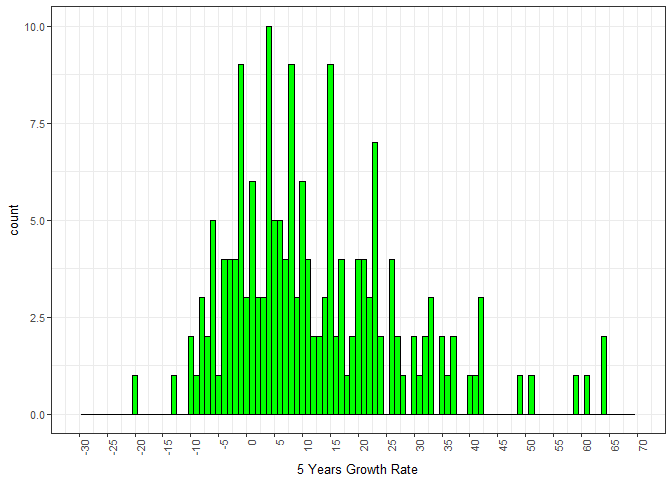
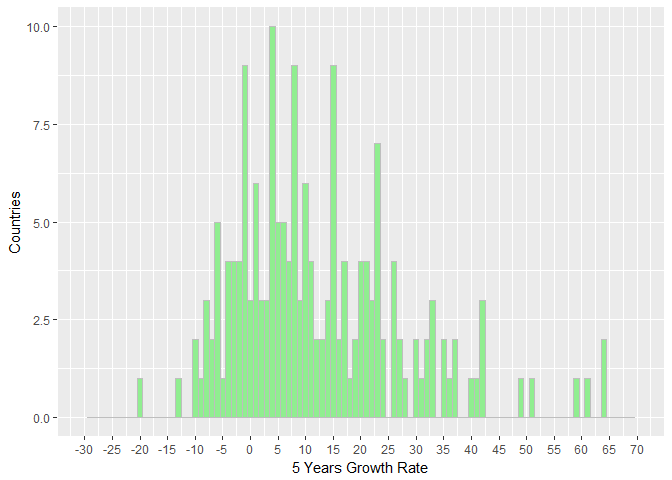
Mini-project series I

diff --git a/lesson3/lesson3_mini-project.md b/lesson3/lesson3_mini-project.md
@@ -1,5 +1,9 @@
-Lesson3 Project
+Mini-Project Series I: The Trends of GDP/Capita By Countries
 ================
+
+### Introduction
+
+The goal of this project series is to explore some macro economic data mostly by visualizing for analysis. For that, there will be a lot of data processing such as creating new variables as well as handling incomplete information. The first topic of the series is about GDP/capita which is one of the well-known economic measures and is what I personally look at when surveying a country. The data set from [Gap Minder](https://www.gapminder.org/data/) is a matrix with inflation-adjusted GDP/capita from 1960 to 2011 for plenty of countries. Histograms of the past and the present will be drawn to see how the countries have grown in the long term. For the recent trends, I will calculate the growth rate in recent 5 years for each nation to see at what rate most countries have grown and which country grew the most and the least. Lastly, the countries will be classified into 3 groups by GDP/capita and will be visualized to show any trend they have.
 
 ### Import libraries
 
@@ -11,27 +15,27 @@ library(dplyr)
 library(gridExtra)
 ```
 
-### Data from Gapminder: GDP/capita (US$, inflation-adjusted) by World Bank
+### Data from Gap Minder: [GDP/capita (US$, inflation-adjusted) by World Bank](https://docs.google.com/spreadsheets/d/1RctTQmKB0hzbm1E8rGcufYdMshRdhmYdeL29nXqmvsc/pub)
 
 ``` r
 gdp_capita <- read.csv('../Data/GDPpercapitaconstant2000US.csv')
 colnames(gdp_capita)[1] <- "Country"
 ```
 
-The data will be used for analyzing trends of GDP/capita over time. The analysis will be conducted for both long term and short term to understand a general trend and the recent trend. There will be some guess work to figure why these trends appear. For the analysis, the data will be processed in such a manner that some column name is changed or some variable is added or dropped for a fair comparison.
+Even if the data set starts from 1960, there are too many missing values to be a quality source. For this reason, the values from 1970 will be used for analysis.
 
 ### Histogram of The Past Year (1970) vs. The Recent Year (2011)
 
 ``` r
 p_1970 <- ggplot(aes(x = X1970), data = subset(gdp_capita, !is.na(X1960))) +
-  geom_histogram(binwidth = 500, color = 'black', fill = 'red') +
+  geom_histogram(binwidth = 500, color = 'gray', fill = 'lightblue') +
   xlab("GDP/capita in 1970") +
   theme_bw(base_size = 10) +
   theme(axis.text.x = element_text(angle = 90, hjust = 1)) +
   scale_x_continuous(limits = c(0, 55000), breaks = seq(0, 55000, 2000))
 
 p_2011 <- ggplot(aes(x = X2011), data = subset(gdp_capita, !is.na(X1960))) +
-  geom_histogram(binwidth = 500, color = 'black', fill = 'blue') +
+  geom_histogram(binwidth = 500, color = 'gray', fill = 'lightblue') +
   xlab("GDP/capita in 2011") +
   theme_bw(base_size = 10) +
   theme(axis.text.x = element_text(angle = 90, hjust = 1)) +
@@ -42,7 +46,7 @@ grid.arrange(p_1970, p_2011, ncol = 1)
 
 ![](lesson3_mini-project_files/figure-markdown_github/unnamed-chunk-3-1.png)
 
-Unlike in 1970, there are many countries with GDP/capita over 20,000 USD in 2011. However, there are still many remaining under 2,000 USD. In conclusion, it can be said that the GDP/capita has moved up in the last a few decades but the disparity among the countries has also grown.
+Unlike in 1970, there are many countries with GDP/capita over 20,000 USD in 2011. However, there are still many remaining under 2,000 USD. In conclusion, it can be said that the GDP/capita has moved up in the last a few decades but the disparity among the countries must have also grown.
 
 ``` r
 gdp_capita$Country[gdp_capita$X2011 > 50000 & !is.na(gdp_capita$X2011)]
@@ -54,22 +58,22 @@ gdp_capita$Country[gdp_capita$X2011 > 50000 & !is.na(gdp_capita$X2011)]
 ### Countries by Growth
 
 ``` r
+# calculate 2006~2011 growth rate
 gdp_capita_5yr <- subset(gdp_capita, !is.na(gdp_capita$X2006) & !is.na(gdp_capita$X2011))
 gdp_capita_5yr <- select(gdp_capita_5yr, matches("Country"), X2006:X2011)
 gdp_capita_5yr$growth_rate <- ((gdp_capita_5yr$X2011 - gdp_capita_5yr$X2006) 
                                / gdp_capita_5yr$X2006) * 100
 
-ggplot(aes(x = growth_rate), data = gdp_capita_5yr) +
-  geom_histogram(binwidth = 1, color = 'black', fill = 'green') +
-  xlab("5 Years Growth Rate") +
-  theme_bw(base_size = 10) +
-  theme(axis.text.x = element_text(angle = 90, hjust = 1)) +
-  scale_x_continuous(limits = c(-30, 70), breaks = seq(-30, 70, 5))
+gdp_capita_5yr_hist <- ggplot(aes(x = growth_rate), data = gdp_capita_5yr) +
+  geom_histogram(binwidth = 1, color = 'gray', fill = 'lightgreen') +
+  xlab("5 Years Growth Rate") + ylab("Countries")
+  
+gdp_capita_5yr_hist + scale_x_continuous(limits = c(-30, 70), breaks = seq(-30, 70, 5))
 ```
 
 ![](lesson3_mini-project_files/figure-markdown_github/unnamed-chunk-5-1.png)
 
-The 5 years growth rate is how much each GDP/capita has grown from 2006 to 2011. As shown, most of the countries fall between -10% and 10%. The reason why there are many of minus growth is supposedly because of the global financial crisis of 2007~2008. While an oil-producing country of UAE is ranked the least growth, many EU countries are listed in the minus growth countries, too. On the other hand, the countries with more than 20% growth in the same period are mostly undeveloped countries in Africa and Asia.
+The 5 years growth rate is how much each GDP/capita has grown from 2006 to 2011. As shown, most of the countries fall between -10% and 10%. The reason why there are many with minus growth is supposedly because of the global financial crisis of 2007~2008. With an oil-producing country of UAE ranked the least growth, many EU countries are listed in the minus growth countries, too. On the other hand, the countries with more than 20% growth in the same period are mostly undeveloped countries in Africa and Asia.
 
 ``` r
 summary(gdp_capita_5yr$growth_rate)
@@ -99,22 +103,35 @@ gdp_capita_5yr$Country[gdp_capita_5yr$growth_rate == max(gdp_capita_5yr$growth_r
 ### Top & Bottom Countries by Growth Class
 
 ``` r
-gdp_capita_5yr$class <- ifelse(gdp_capita_5yr$X2006 > 20000, "upper", "middle")
-gdp_capita_5yr$class <- ifelse(gdp_capita_5yr$X2006 < 2000, "under", 
+# classify countries into 3 groups
+gdp_capita_5yr$class <- ifelse(gdp_capita_5yr$X2006 > 20000, "Upper", "Middle")
+gdp_capita_5yr$class <- ifelse(gdp_capita_5yr$X2006 < 2000, "Under", 
                                gdp_capita_5yr$class)
 
+# factorize and put the classes in order
 gdp_capita_5yr$class <- as.factor(gdp_capita_5yr$class)
 gdp_capita_5yr$class <- factor(gdp_capita_5yr$class, 
-                               levels(gdp_capita_5yr$class)[c(2, 1, 3)])
+                               levels(gdp_capita_5yr$class)[c(3, 1, 2)])
 
-ggplot(aes(x = growth_rate, y = ..count../sum(..count..)), data = gdp_capita_5yr) +
+gdp_capita_5yr_class <- ggplot(aes(x = growth_rate, y = ..count../sum(..count..)),
+                               data = gdp_capita_5yr) +
   geom_freqpoly(aes(color = class), binwidth = 5) +
-  scale_x_continuous(limits = c(-30, 70), breaks = seq(-30, 70, 5))
+  xlab("5 Years Growth Rate") + ylab("Frequency")
+
+gdp_capita_5yr_class + scale_color_discrete(name = "")
 ```
 
 ![](lesson3_mini-project_files/figure-markdown_github/unnamed-chunk-9-1.png)
 
-As discussed in the previous graph, GDP/capita can be classified as 'Upper', 'Middle', 'Under'. With just 3 simple line plots, it is now clear that the 5 years were when the developed countries suffered while undeveloped countries had chance to grow. This can be yet again confirmed with the box plot that undeveloped countries have grown in the 5 years the most.
+``` r
+  scale_x_continuous(limits = c(-30, 70), breaks = seq(-30, 70, 5))
+```
+
+    ## <ScaleContinuousPosition>
+    ##  Range:  
+    ##  Limits:  -30 --   70
+
+The GDP/capita can be classified as 'Upper', 'Middle', 'Under'. With just 3 simple line plots, it is now clear that the 5 years were the time when the developed countries suffered while undeveloped countries had chance to grow. This can be yet again confirmed with the box plot that undeveloped countries have grown in the 5 years the most.
 
 ``` r
 ggplot(aes(x = class ,y = growth_rate), data = gdp_capita_5yr) +
@@ -125,4 +142,4 @@ ggplot(aes(x = class ,y = growth_rate), data = gdp_capita_5yr) +
 
 ### Conclusion
 
-The most interesting fact found through this analysis is that there are still so many countries remaining under GDP/capita 2,000 USD while the number of countries becomes smaller as the GDP/capita increases. But it is also true that most of the countries grew over a long time. In the short term, some undeveloped countries could grow remarkably while most developed countries struggled during recent years.
+The fact found through the histogram comparison is that there are still so many countries remaining under GDP/capita 2,000 USD group while the number of countries in other groups becomes smaller as the GDP/capita increases. But it is also true that most of the countries grew over a long time period. In the short term, some undeveloped countries could grow remarkably while most developed countries struggled during the recent years as seen in the 5 years growth analysis.
